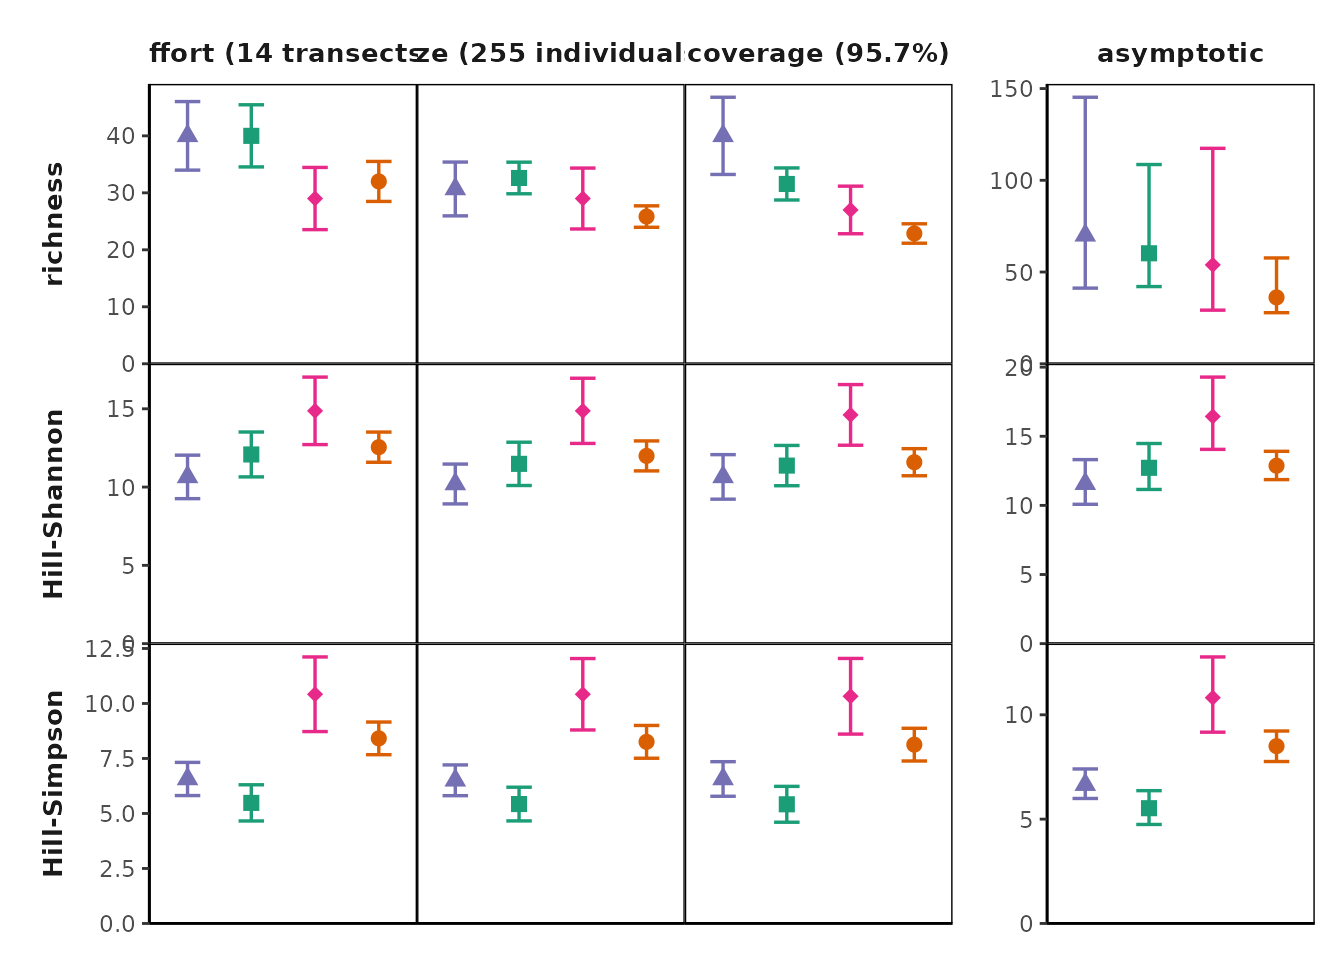
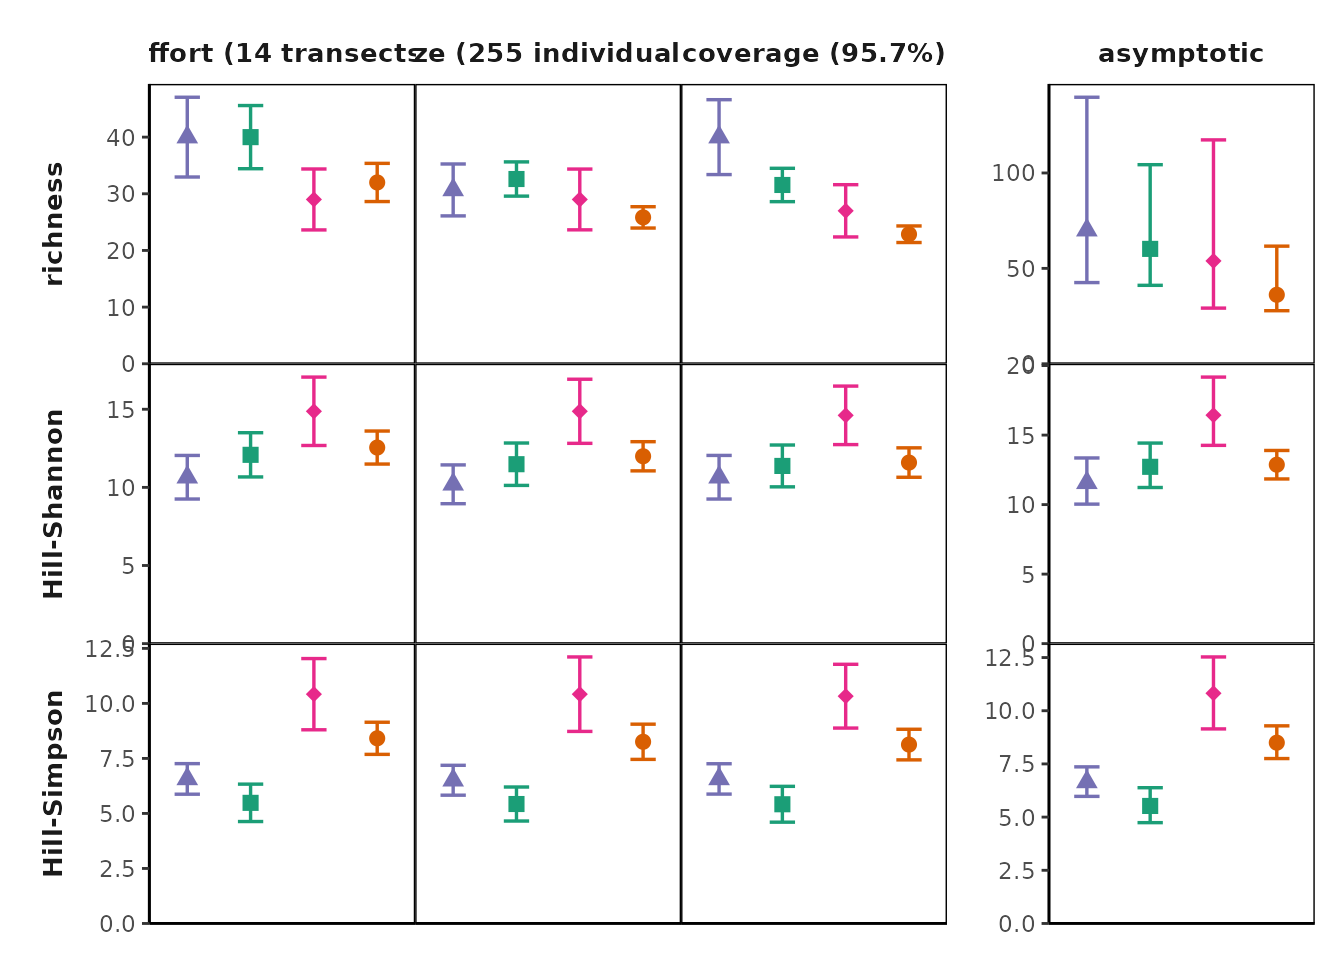
Built site for MeanRarity: 0.0.1.0002@49e1c14

diff --git a/articles/Using_MeanRarity.html b/articles/Using_MeanRarity.html
@@ -95,6 +95,7 @@
 <!-- also see html_document -->
 <!-- also see prettydoc::html_pretty which might solve the equation numbering issues -->
 <!-- https://bookdown.org/yihui/rmarkdown/prettydoc.html -->
+<!-- Application: Short (no more than 3000-4000 words total) descriptions of new software that are intended to describe and promote the software as well as act as a citeable resource for developers. Application papers are made free to access for one month after being assigned to an issue in order to encourage uptake of the methodologies they describe. Uploading a package to a site such as CRAN or sourceforge in advance is not considered prior publication and will not hinder your submission to MEE. View some example Applications here: https://besjournals.onlinelibrary.wiley.com/hub/journal/2041210X/features/applicationpapers -->
 
 <div class="section level1">
 <h1 id="abstract">ABSTRACT<a class="anchor" aria-label="anchor" href="#abstract"></a>
@@ -292,16 +293,16 @@
 <span class="va">uneven_sample</span> <span class="op">&lt;-</span> <span class="fu"><a href="../reference/sample_infinite.html">sample_infinite</a></span><span class="op">(</span><span class="va">uneven_SAD</span><span class="op">$</span><span class="va">rel_abundances</span>, <span class="fl">50</span><span class="op">)</span>
 <span class="co">#sample_infinite returns a numeric vector of sample species abundances</span>
 <span class="va">even_sample</span>
-<span class="co">#&gt;  [1] 11  9  6  5  2  2  1  2  4  1  0  1  0  1  2  0  2  1  0  0</span>
+<span class="co">#&gt;  [1] 12  4  7  3  2  3  3  2  1  1  2  1  1  1  2  2  1  1  0  1</span>
 <span class="va">uneven_sample</span>
-<span class="co">#&gt;  [1] 20  5  5  0  5  4  4  2  2  1  0  1  0  0  0  1  0  0  0  0</span>
+<span class="co">#&gt;  [1] 13 10  8  4  3  1  1  3  1  0  0  1  0  2  2  0  0  0  1  0</span>
 
 <span class="co"># we can compare evenness (given a scaling parameter `l`)</span>
 <span class="co"># the evenness is the normalized ratio of an arbitrary Hill diversity to richness</span>
 <span class="fu"><a href="../reference/e3Fun.html">e3Fun</a></span><span class="op">(</span><span class="va">even_sample</span>, <span class="op">-</span><span class="fl">1</span><span class="op">)</span>
-<span class="co">#&gt; [1] 0.5159774</span>
+<span class="co">#&gt; [1] 0.4705387</span>
 <span class="fu"><a href="../reference/e3Fun.html">e3Fun</a></span><span class="op">(</span><span class="va">uneven_sample</span>, <span class="op">-</span><span class="fl">1</span><span class="op">)</span>
-<span class="co">#&gt; [1] 0.3826255</span>
+<span class="co">#&gt; [1] 0.4649123</span>
 
 <span class="co"># compare diversity from sample vs. ideal SAD:</span>
 <span class="co"># likely pretty far off for a small sample!</span>
@@ -314,7 +315,7 @@
   <span class="fu"><a href="../reference/rarity.html">rarity</a></span><span class="op">(</span><span class="va">even_sample</span>, <span class="va">l</span><span class="op">)</span>
 <span class="op">}</span><span class="op">)</span><span class="op">)</span>
 <span class="co">#&gt;      [,1] [,2]     [,3]    </span>
-<span class="co">#&gt; [1,] 15   10.62806 8.223684</span>
+<span class="co">#&gt; [1,] 19   13.40912 9.469697</span>
 
 <span class="co"># with an uneven SAD, sample Hill-Simpson can be higher than true Hill-Simpson</span>
 <span class="co"># richness is always lower</span>
@@ -325,7 +326,7 @@
   <span class="fu"><a href="../reference/rarity.html">rarity</a></span><span class="op">(</span><span class="va">uneven_sample</span>, <span class="va">l</span><span class="op">)</span>
 <span class="op">}</span><span class="op">)</span><span class="op">)</span>
 <span class="co">#&gt;      [,1] [,2]     [,3]    </span>
-<span class="co">#&gt; [1,] 11   7.054318 4.826255</span>
+<span class="co">#&gt; [1,] 13   8.616851 6.578947</span>
 
 
 <span class="va">big_even_sample</span> <span class="op">&lt;-</span> <span class="fu"><a href="../reference/sample_infinite.html">sample_infinite</a></span><span class="op">(</span><span class="va">even_SAD</span><span class="op">$</span><span class="va">rel_abundances</span>, <span class="fl">1e7</span><span class="op">)</span>
@@ -338,8 +339,8 @@
 <span class="fu"><a href="https://rdrr.io/r/base/cbind.html" class="external-link">rbind</a></span><span class="op">(</span><span class="fu"><a href="https://rdrr.io/r/base/lapply.html" class="external-link">lapply</a></span><span class="op">(</span><span class="fu"><a href="https://rdrr.io/r/base/c.html" class="external-link">c</a></span><span class="op">(</span><span class="fl">1</span>, <span class="fl">0</span>, <span class="op">-</span><span class="fl">1</span><span class="op">)</span>, <span class="kw">function</span><span class="op">(</span><span class="va">l</span><span class="op">)</span><span class="op">{</span>
   <span class="fu"><a href="../reference/rarity.html">rarity</a></span><span class="op">(</span><span class="va">big_even_sample</span>, <span class="va">l</span><span class="op">)</span>
 <span class="op">}</span><span class="op">)</span><span class="op">)</span>
-<span class="co">#&gt;      [,1] [,2]    [,3]    </span>
-<span class="co">#&gt; [1,] 20   15.1217 12.00089</span></code></pre></div>
+<span class="co">#&gt;      [,1] [,2]     [,3]    </span>
+<span class="co">#&gt; [1,] 20   15.12091 11.99764</span></code></pre></div>
 <p>For any distribution of relative abundances, one can ask, “what is the Hill diversity of this distribution?” Yet the answer, of course, depends on the chosen value of the scaling parameter <span class="math inline">\(\ell\)</span>. For a comprehensive answer, one might look across values of <span class="math inline">\(\ell\)</span>, also known as a Hill “diversity profile” <span class="citation">(Chao et al. 2014)</span>. <code>MeanRarity</code> provides a function to generate a Hill diversity profile based on <span class="math inline">\(\ell\)</span> (rather than <span class="math inline">\(q\)</span>): <code><a href="../reference/divpro.html">divpro()</a></code>.</p>
 <div class="sourceCode" id="cb10"><pre class="downlit sourceCode r">
 <code class="sourceCode R"><span class="co"># the even and uneven communities have same richness but different Hill diversity when `ell != 1`</span>

diff --git a/reference/Chao_Hill_abu.html b/reference/Chao_Hill_abu.html
@@ -110,11 +110,11 @@ ISSN 2041210X, doi: <a href="https://doi.org/10.1111/2041-21" class="external-li
 <span class="r-in"></span>
 <span class="r-in"><span class="co"># estimate true Hill diversity</span></span>
 <span class="r-in"><span class="fu">Chao_Hill_abu</span><span class="op">(</span><span class="va">abs</span>, l <span class="op">=</span> <span class="fl">1</span><span class="op">)</span> <span class="co"># Chao1 estimate of richness lower bound</span></span>
-<span class="r-out co"><span class="r-pr">#&gt;</span> [1] 37.49</span>
+<span class="r-out co"><span class="r-pr">#&gt;</span> [1] 41.94667</span>
 <span class="r-in"><span class="fu">Chao_Hill_abu</span><span class="op">(</span><span class="va">abs</span>, l <span class="op">=</span> <span class="fl">0</span><span class="op">)</span> <span class="co"># Asymptotic estimate of Hill-Shannon diversity</span></span>
-<span class="r-out co"><span class="r-pr">#&gt;</span> [1] 28.18528</span>
+<span class="r-out co"><span class="r-pr">#&gt;</span> [1] 28.19927</span>
 <span class="r-in"><span class="fu">Chao_Hill_abu</span><span class="op">(</span><span class="va">abs</span>, l <span class="op">=</span> <span class="op">-</span><span class="fl">1</span><span class="op">)</span> <span class="co"># Asymptotic estimate of Hill-Simpson diversity</span></span>
-<span class="r-out co"><span class="r-pr">#&gt;</span> [1] 19.63972</span>
+<span class="r-out co"><span class="r-pr">#&gt;</span> [1] 20.31818</span>
 <span class="r-in"></span>
 </code></pre></div>
     </div>

diff --git a/reference/hurl.html b/reference/hurl.html
@@ -121,7 +121,7 @@ doi: <a href="https://doi.org/10.2307/1934145" class="external-link">10.2307/193
     <h2>Examples</h2>
     <div class="sourceCode"><pre class="sourceCode r"><code><span class="r-in"><span class="va">ab</span> <span class="op">=</span> <span class="fu"><a href="https://rdrr.io/r/base/sample.html" class="external-link">sample</a></span><span class="op">(</span><span class="fl">10</span><span class="op">:</span><span class="fl">50</span>, <span class="fl">50</span>, replace <span class="op">=</span><span class="cn">TRUE</span><span class="op">)</span></span>
 <span class="r-in"><span class="fu">hurl</span><span class="op">(</span><span class="va">ab</span>, <span class="fl">2</span><span class="op">)</span></span>
-<span class="r-out co"><span class="r-pr">#&gt;</span> [1] 45.48949</span>
+<span class="r-out co"><span class="r-pr">#&gt;</span> [1] 45.38872</span>
 <span class="r-in"><span class="co"># not run</span></span>
 <span class="r-in"><span class="co"># hurl(ab, 1e5) # returns an error</span></span>
 <span class="r-in"></span>

diff --git a/reference/Chat.Ind.html b/reference/Chat.Ind.html
@@ -111,11 +111,11 @@ doi: <a href="https://doi.org/10.1890/11-1952.1" class="external-link">10.1890/1
 <span class="r-in"></span>
 <span class="r-in"><span class="co"># estimate coverage of sample</span></span>
 <span class="r-in"><span class="fu">Chat.Ind</span><span class="op">(</span><span class="va">abs</span><span class="op">)</span></span>
-<span class="r-out co"><span class="r-pr">#&gt;</span> [1] 0.9406199</span>
+<span class="r-out co"><span class="r-pr">#&gt;</span> [1] 0.9471982</span>
 <span class="r-in"></span>
 <span class="r-in"><span class="co"># estimate coverage under rarefaction</span></span>
 <span class="r-in"><span class="fu">Chat.Ind</span><span class="op">(</span><span class="va">abs</span>, m <span class="op">=</span> <span class="fl">100</span><span class="op">)</span></span>
-<span class="r-out co"><span class="r-pr">#&gt;</span> [1] 0.888675</span>
+<span class="r-out co"><span class="r-pr">#&gt;</span> [1] 0.8936828</span>
 </code></pre></div>
     </div>
   </div>

diff --git a/reference/sample_finite.html b/reference/sample_finite.html
@@ -91,7 +91,7 @@ scalar</p></dd>
     <div id="ref-examples">
     <h2>Examples</h2>
     <div class="sourceCode"><pre class="sourceCode r"><code><span class="r-in"><span class="fu">sample_finite</span><span class="op">(</span><span class="fl">1</span><span class="op">:</span><span class="fl">9</span>, <span class="fl">15</span><span class="op">)</span></span>
-<span class="r-out co"><span class="r-pr">#&gt;</span> [1] 0 0 2 2 0 2 2 4 3</span>
+<span class="r-out co"><span class="r-pr">#&gt;</span> [1] 1 1 0 3 3 2 1 3 1</span>
 </code></pre></div>
     </div>
   </div>
